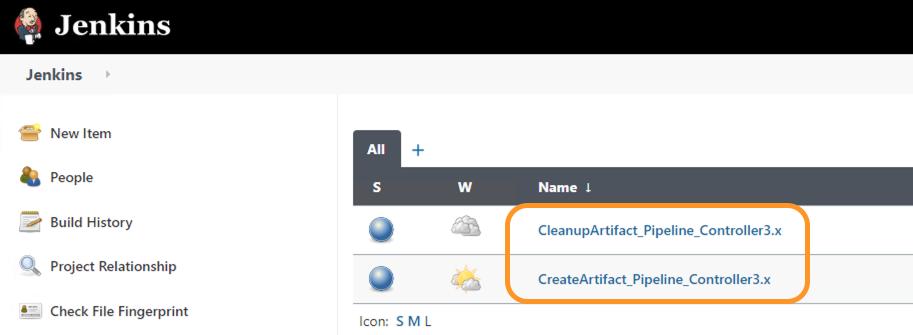
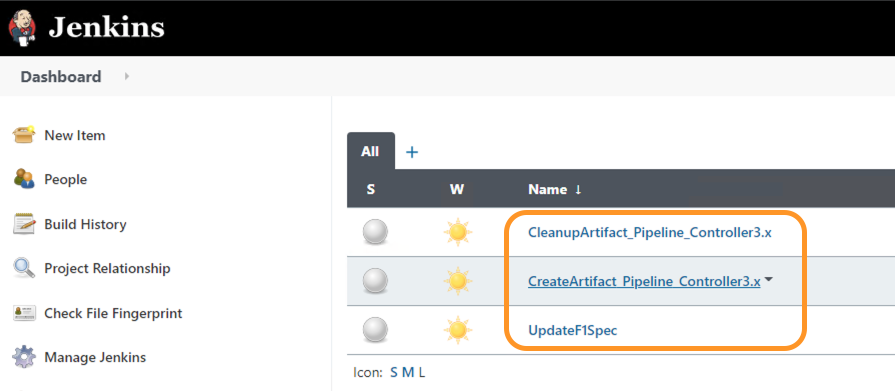
Updated the automation doc to include v2 publishing steps

diff --git a/Docs/AutomationDemo.md b/Docs/AutomationDemo.md
@@ -14,7 +14,7 @@
   
 - Login to Jenkins using Admin credentials. (For credentials, refer [README.md](../README.md#demo-environment-related-credentials) file)
 
-- Within Jenkins you should be able to see two pipeline jobs as below.<br>
+- Within Jenkins you should be able to see three pipeline jobs as below.<br>
   ![Jenkins Dashboard](./Media/Automation/01_Jenkins_Dashboard.png)
 
 - Open the `CreateArtifact_Pipeline_Controller3.x` job, by clicking on it. 
@@ -41,3 +41,6 @@
 
 - If we navigate back to Controller we can see all the components have been created and are ready to be used.<br>
   ![Controller Services Populated](Media/Automation/08_Controller_Services_populated.png)
+
+- To deploy a newer version of F1 API (Version 2 API Spec) run `UpdateF1Spec` job within jenkins in a similar fashion as you ran the `CreateArtifact_Pipeline_Controller3.x` job.<br>
+  ![Jenkins UpdateF1Spec](Media/Automation/09_Jenkins_F1V2_job.png)
